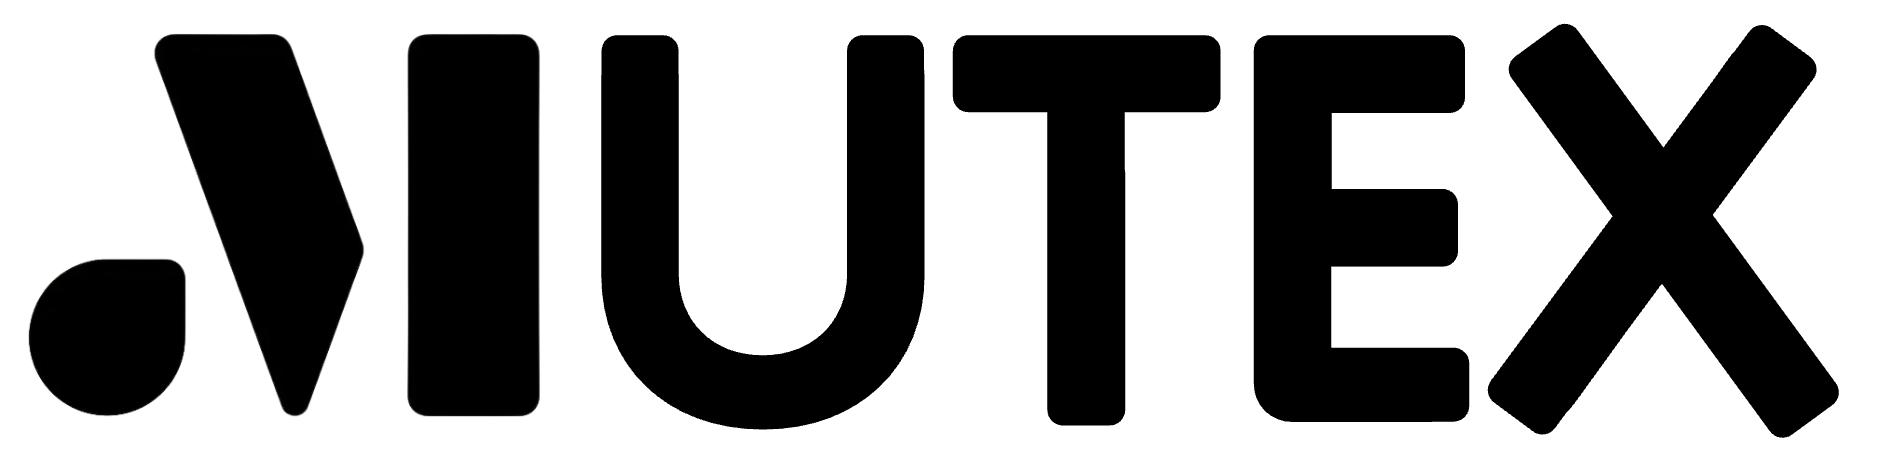
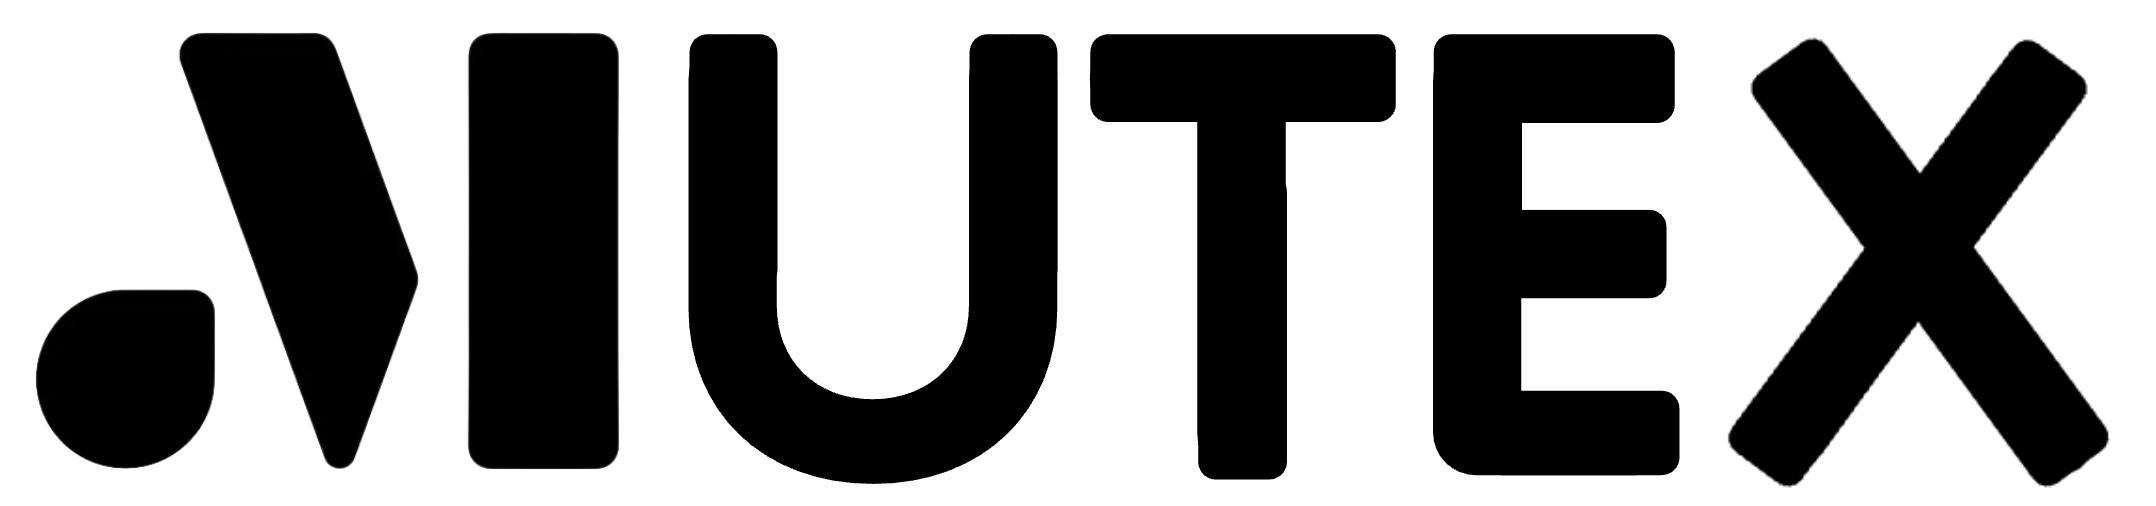
Replace login screen with a real landing page
- Add a bold, minimal landing page: centered icon+wordmark lockup,
  a code-flavored subtitle (lock() -> edit() -> unlock() as a team),
  and an obvious GitHub sign-in CTA, replacing the plain login card
- Staggered entrance animation (float-down, left-to-right subtitle
  reveal) and hover flourishes on the logo, subtitle, and CTA
- Fix a font-loading flash on the wordmark by using font-extrabold
  (700, an actually-loaded Inter weight) instead of font-black (900,
  never loaded, so the browser swapped weights mid-animation)
- Update to the latest wordmark asset
- Extract the shared cx() classname helper into lib/cx.ts so both
  App.tsx and the new landing page can use it without a circular import

Claude-Session: https://claude.ai/code/session_01LAoMreVsgZrDr7Yo1cQR3E

diff --git a/apps/web/src/App.tsx b/apps/web/src/App.tsx
@@ -58,6 +58,8 @@ import type { Socket } from "socket.io-client";
 import type { ClientToServerEvents, ServerToClientEvents } from "@relaycode/shared";
 import { PixelAvatar, PixelCrew } from "./PixelCrew";
 import { PIXEL_SKINS } from "./pixelCharacters";
+import { cx } from "./lib/cx";
+import { LandingPage } from "./LandingPage";
 
 type AppSocket = Socket<ServerToClientEvents, ClientToServerEvents>;
 type Member = User & { online: boolean; present: boolean; daemonVersion?: string; syncedSha?: string; mapped?: boolean; synchronized?: boolean; localPath?: string; color: string };
@@ -102,7 +104,6 @@ const statusMeta: Record<TaskStatus, { label: string; tone: string; dot: string 
   DISCARDED_BY_ROLLBACK: { label: "Discarded by rollback", tone: "bg-zinc-100 text-zinc-500", dot: "bg-zinc-400" },
 };
 
-function cx(...classes: Array<string | false | null | undefined>) { return classes.filter(Boolean).join(" "); }
 function shortSha(sha?: string | null) { return sha?.slice(0, 7) ?? "—"; }
 function normalizeProject(raw: Project & Partial<ProjectItem>): ProjectItem {
   const members = Array.isArray(raw.members) ? raw.members : [];
@@ -166,7 +167,7 @@ export default function App() {
       .finally(() => setCheckingSession(false));
   }, [signedIn]);
   if (checkingSession) return <div className="grid min-h-screen place-items-center bg-[#f4f4f2]"><div className="flex items-center gap-2 text-[11px] text-zinc-500"><LoaderCircle size={15} className="animate-spin" /> Signing you in…</div></div>;
-  if (!signedIn) return <LoginScreen />;
+  if (!signedIn) return <LandingPage />;
   return <Workspace />;
 }
 
@@ -463,23 +464,6 @@ function Workspace() {
       {pairingState && <CompanionConnectStatus state={pairingState} onClose={() => { setPairingState(null); window.history.replaceState({}, "", "/"); }} />}
     </div>
   );
-}
-
-function LoginScreen() {
-  const oauthError = new URLSearchParams(window.location.search).get("error");
-  return <div className="grid min-h-screen place-items-center bg-[#f4f4f2] p-5">
-    <div className="enter-up w-full max-w-[420px] overflow-hidden rounded-[24px] border border-zinc-200 bg-white shadow-float">
-      <div className="border-b border-zinc-100 px-7 pb-7 pt-8">
-        <img src="/brand/mutex-mark-navy.png" alt="Mutex" className="size-11 rounded-[14px] object-cover" />
-        <h1 className="mt-6 text-[28px] font-semibold tracking-[-0.045em]">Welcome to Mutex</h1>
-        <p className="mt-2 text-[12px] leading-5 text-zinc-500">Sign in to collaborate on repositories your GitHub account can access.</p>
-      </div>
-      <div className="px-7 py-7">
-        {oauthError && <div className="mb-4 rounded-xl border border-red-200 bg-red-50 px-3 py-2.5 text-[10px] leading-4 text-red-700">{oauthError}</div>}
-        <button onClick={beginGithubLogin} className="flex h-11 w-full items-center justify-center gap-2 rounded-xl bg-zinc-950 text-[11px] font-medium text-white transition hover:bg-zinc-800"><Github size={15} /> Continue with GitHub</button>
-      </div>
-    </div>
-  </div>;
 }
 
 function ProjectSidebar({ projects, user, companion, selectedId, open, collapsed, onToggleCollapsed, onClose, onSelect, onCreateProject, onUserSettings }: { projects: ProjectItem[]; user: User; companion?: Member; selectedId: string; open: boolean; collapsed: boolean; onToggleCollapsed: () => void; onClose: () => void; onSelect: (id: string) => void; onCreateProject: () => void; onUserSettings: () => void }) {

diff --git a/apps/web/src/LandingPage.tsx b/apps/web/src/LandingPage.tsx
@@ -1,0 +1,52 @@
+import { ArrowRight, Github } from "lucide-react";
+import { beginGithubLogin } from "./lib/api";
+
+export function LandingPage() {
+  const oauthError = new URLSearchParams(window.location.search).get("error");
+  return (
+    <div className="relative flex min-h-screen flex-col items-center justify-center overflow-hidden bg-[#faf9f6] px-6 py-20 text-center">
+      <div className="pointer-events-none absolute inset-0 [background:radial-gradient(ellipse_70%_55%_at_50%_38%,rgba(24,24,27,.05),transparent_70%)]" />
+
+      <div className="relative flex flex-col items-center gap-7 sm:gap-9">
+        <div className="float-down group/logo flex cursor-default items-center gap-4 sm:gap-6">
+          <img
+            src="/brand/mutex-mark-navy.png"
+            alt=""
+            className="size-16 shrink-0 rounded-2xl object-cover shadow-[0_20px_45px_rgba(24,24,27,.18)] transition duration-500 ease-out group-hover/logo:-rotate-6 group-hover/logo:scale-110 sm:size-24"
+          />
+          <span className="text-[56px] font-extrabold leading-none tracking-tight text-zinc-950 sm:text-[88px]">MUTEX</span>
+        </div>
+
+        <p className="group/sub max-w-md font-mono text-[13px] font-medium text-zinc-500 sm:text-[15px]">
+          <span className="slide-in-left transition-colors duration-200 group-hover/sub:text-zinc-950" style={{ animationDelay: "150ms" }}>lock()</span>
+          <span className="slide-in-left mx-2 sm:mx-3" style={{ animationDelay: "230ms" }}>→</span>
+          <span className="slide-in-left transition-colors duration-200 group-hover/sub:text-zinc-950" style={{ animationDelay: "310ms" }}>edit()</span>
+          <span className="slide-in-left mx-2 sm:mx-3" style={{ animationDelay: "390ms" }}>→</span>
+          <span className="slide-in-left transition-colors duration-200 group-hover/sub:text-zinc-950" style={{ animationDelay: "470ms" }}>unlock()</span>
+          <span className="slide-in-left ml-2" style={{ animationDelay: "540ms" }}>as a team</span>
+        </p>
+
+        <button
+          onClick={beginGithubLogin}
+          className="float-down group/cta mt-2 flex items-center gap-3 rounded-full bg-signal px-8 py-4 text-[15px] font-bold text-zinc-950 transition duration-300 hover:scale-[1.04] hover:shadow-[0_14px_38px_rgba(241,180,76,.5)] hover:brightness-105 active:scale-[0.98]"
+          style={{ animationDelay: "600ms" }}
+        >
+          <Github size={19} className="transition-transform duration-300 group-hover/cta:-rotate-12" /> Continue with GitHub
+          <ArrowRight size={17} className="transition-transform duration-300 group-hover/cta:translate-x-1.5" />
+        </button>
+
+        {oauthError && <div className="max-w-sm rounded-xl border border-red-200 bg-red-50 px-4 py-3 text-[12px] text-red-700">{oauthError}</div>}
+      </div>
+
+      <a
+        href="https://github.com/lavanyagarg112/astra-code-chat"
+        target="_blank"
+        rel="noreferrer"
+        className="float-down group/src absolute bottom-8 flex items-center gap-2 text-[14px] font-medium text-zinc-400 transition-colors duration-200 hover:text-zinc-700"
+        style={{ animationDelay: "750ms" }}
+      >
+        <Github size={16} className="transition-transform duration-300 group-hover/src:rotate-[-18deg]" /> View source
+      </a>
+    </div>
+  );
+}

diff --git a/apps/web/src/index.css b/apps/web/src/index.css
@@ -62,6 +62,18 @@ button { -webkit-tap-highlight-color: transparent; }
 .enter-up { animation: enter-up .35s cubic-bezier(.22,.8,.3,1) both; }
 .pulse-soft { animation: pulse-soft 1.8s ease-in-out infinite; }
 
+@keyframes float-down {
+  from { opacity: 0; transform: translateY(-28px); }
+  to { opacity: 1; transform: translateY(0); }
+}
+.float-down { animation: float-down 1.4s cubic-bezier(.16,.8,.24,1) both; }
+
+@keyframes slide-in-left {
+  from { opacity: 0; transform: translateX(-10px); }
+  to { opacity: 1; transform: translateX(0); }
+}
+.slide-in-left { display: inline-block; animation: slide-in-left .5s ease-out both; }
+
 @keyframes pixel-idle {
   0%, 100% { transform: translateY(0); }
   50% { transform: translateY(-1px); }

diff --git a/apps/web/src/lib/cx.ts b/apps/web/src/lib/cx.ts
@@ -1,0 +1,3 @@
+export function cx(...classes: Array<string | false | null | undefined>): string {
+  return classes.filter(Boolean).join(" ");
+}
